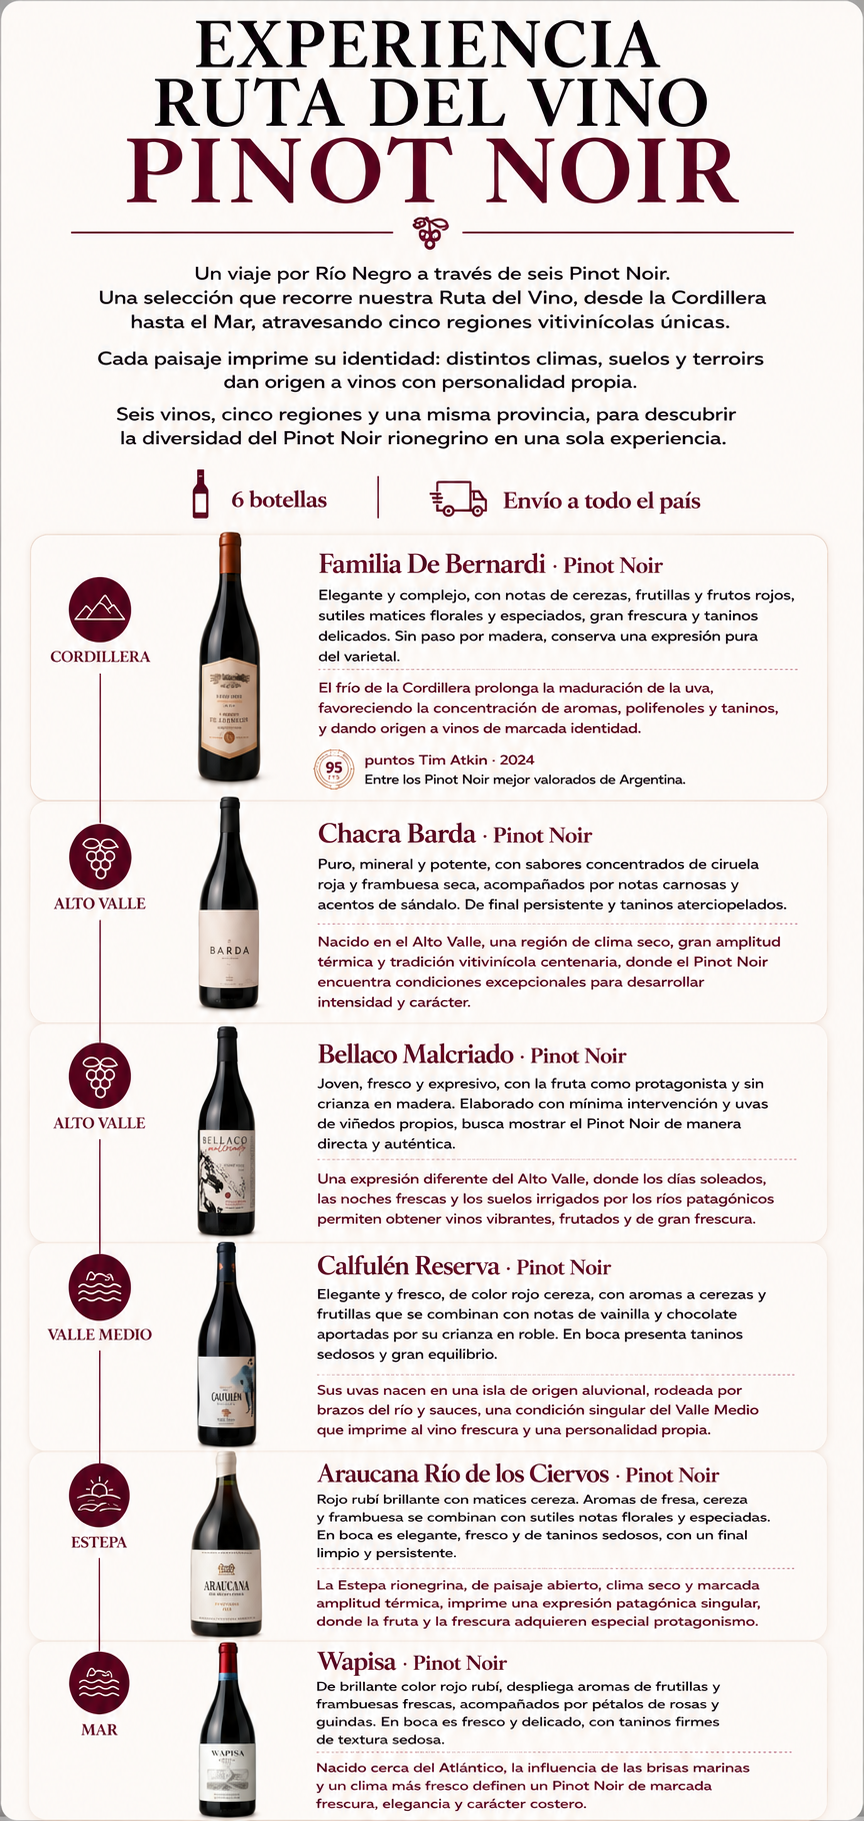
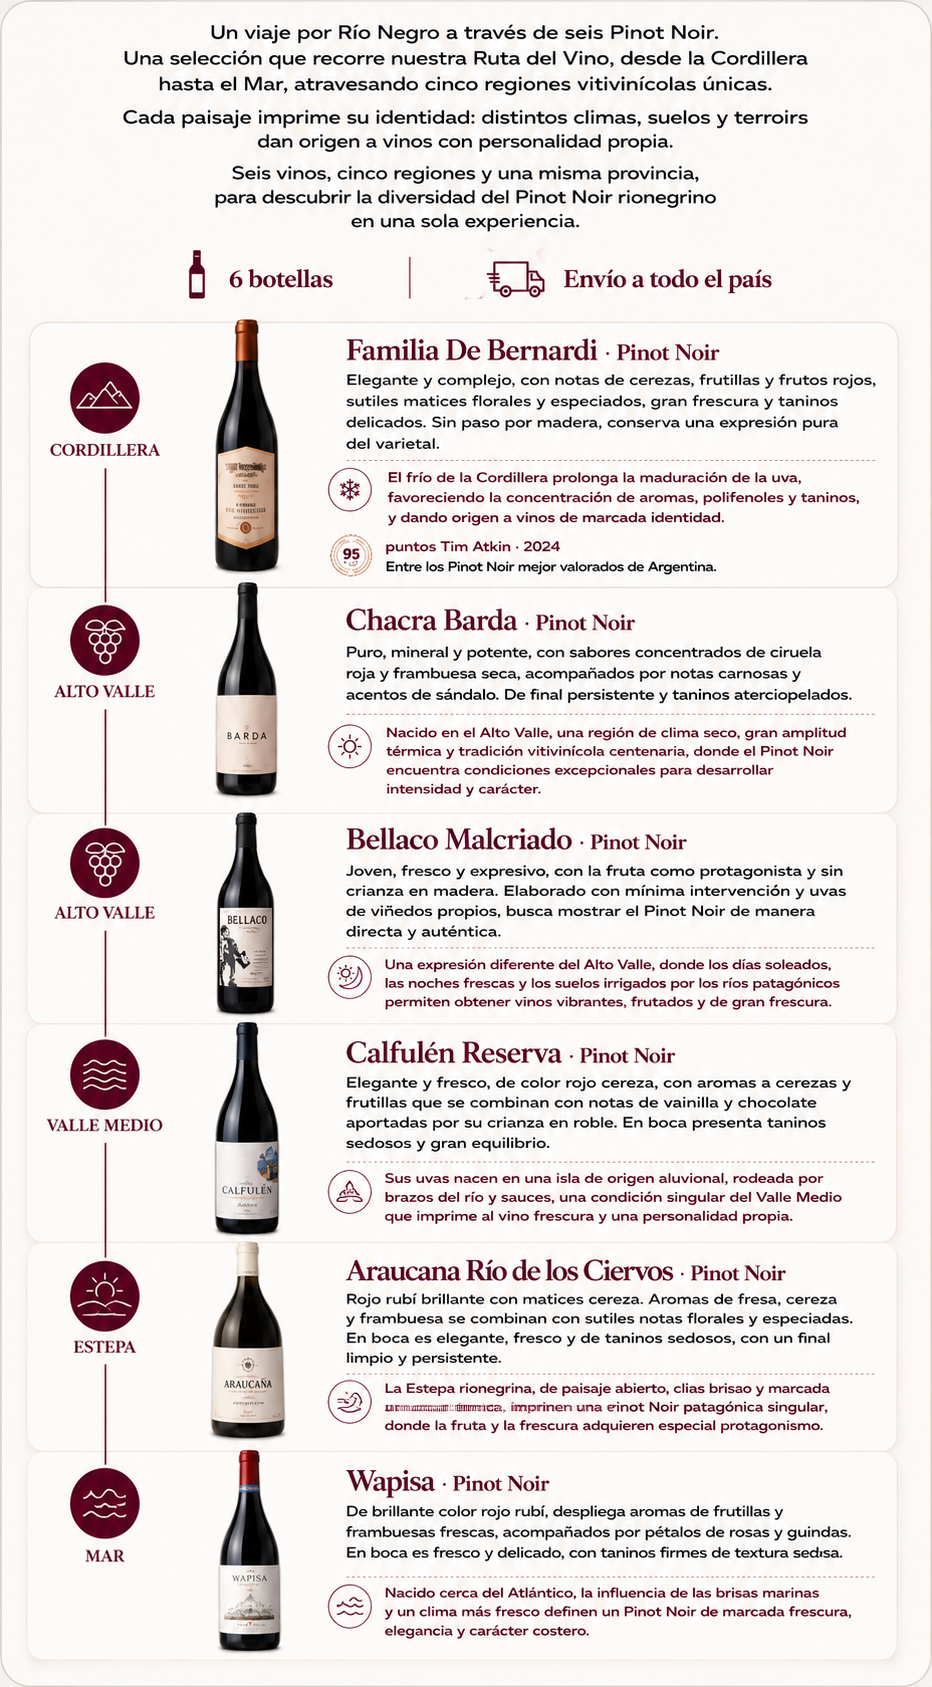
Headers con degradado suave + ajustes del detalle de Pinot Noir
- Todos los headers de foto usan un degradado tipo "Ruta del Vino":
  transparente arriba (colores reales de la imagen), oscurece solo hacia
  abajo para la legibilidad del título/subtítulo. Se cambia solo el valor
  de DEFAULT_HEADER_GRADIENT + el header de la ficha de bodega, que tenía
  uno propio hardcodeado.
- PhotoHeader: nueva prop hideText. El detalle de "Experiencia Ruta del
  Vino Pinot Noir" oculta título/subtítulo (la imagen ya los trae) y usa
  gradiente transparente. Malbec, Merlot y Cursos sin cambios.
- Detalle de ese producto: la tarjeta de imagen va a sangre completa
  (cancela el padding de sheetSurface). El resto de las tarjetas sin tocar.
- Reemplazo de head-experiencia-... y tarjeta-descripcion-... por versiones
  nuevas.

Claude-Session: https://claude.ai/code/session_01U67twmmUSnwAerMc1rTUzH

diff --git a/src/App.tsx b/src/App.tsx
@@ -4109,7 +4109,7 @@ export default function App() {
              style={{
                ...styles.homePhoto,
                height: 210,
-               backgroundImage: `linear-gradient(180deg, rgba(20,20,16,0.15) 0%, rgba(20,20,16,0.55) 100%), url('${
+               backgroundImage: `${DEFAULT_HEADER_GRADIENT}, url('${
                  (detailView as Winery).image
                }')`,
              }}
@@ -4421,6 +4421,12 @@ function ShopScreen({
           subtitle="La Patagonia en una caja"
           onMenuClick={onMenuClick}
           onProfile={onProfile}
+          hideText={Boolean(openProduct.featured)}
+          gradient={
+            openProduct.featured
+              ? "linear-gradient(to bottom, rgba(0,0,0,0), rgba(0,0,0,0))"
+              : undefined
+          }
         />
         <div style={styles.sheetSurface}>
           <ProductDetailScreen
@@ -4848,7 +4854,8 @@ function ProductDetailScreen({
 
       {detailImage ? (
         <>
-          <div style={styles.detailImageCard}>
+          {/* A sangre: -16 a cada lado cancela el padding de sheetSurface */}
+          <div style={{ marginLeft: -16, marginRight: -16 }}>
             <img
               src={detailImage}
               alt={name}
@@ -5107,8 +5114,10 @@ function Header({
 const HOME_PHOTO_URL =
   "https://images.unsplash.com/photo-1763786470689-5ff88c985885?fm=jpg&q=70&w=1400&auto=format&fit=crop";
 
+// Perfil tipo "Ruta del Vino": la foto se ve con sus colores reales en la mitad
+// superior y solo oscurece hacia abajo, donde va el título/subtítulo.
 const DEFAULT_HEADER_GRADIENT =
-  "linear-gradient(135deg, rgba(20,20,16,0.55) 0%, rgba(23,48,63,0.5) 55%, rgba(10,58,92,0.72) 100%)";
+  "linear-gradient(to bottom, rgba(10,10,8,0) 0%, rgba(10,10,8,0.06) 45%, rgba(10,10,8,0.55) 82%, rgba(10,10,8,0.85) 100%)";
 
 function PhotoHeader({
   imageUrl,
@@ -5119,6 +5128,7 @@ function PhotoHeader({
   gradient,
   height = 230,
   backgroundSize = "cover",
+  hideText = false,
 }: {
   imageUrl: string;
   title: string;
@@ -5128,6 +5138,7 @@ function PhotoHeader({
   gradient?: string;
   height?: number;
   backgroundSize?: string;
+  hideText?: boolean;
 }) {
   return (
     <div
@@ -5162,12 +5173,14 @@ function PhotoHeader({
         </div>
       </div>
 
-      <div style={styles.homePhotoTextWrap}>
-        <div style={styles.homePhotoTitle} translate="no">
-          {title}
+      {!hideText && (
+        <div style={styles.homePhotoTextWrap}>
+          <div style={styles.homePhotoTitle} translate="no">
+            {title}
+          </div>
+          <div style={styles.homePhotoSubtitle}>{subtitle}</div>
         </div>
-        <div style={styles.homePhotoSubtitle}>{subtitle}</div>
-      </div>
+      )}
     </div>
   );
 }
